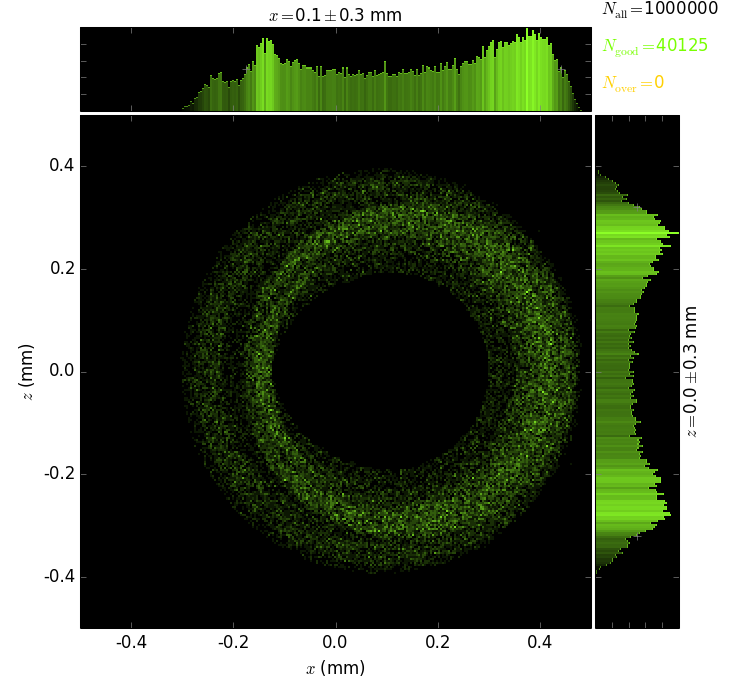
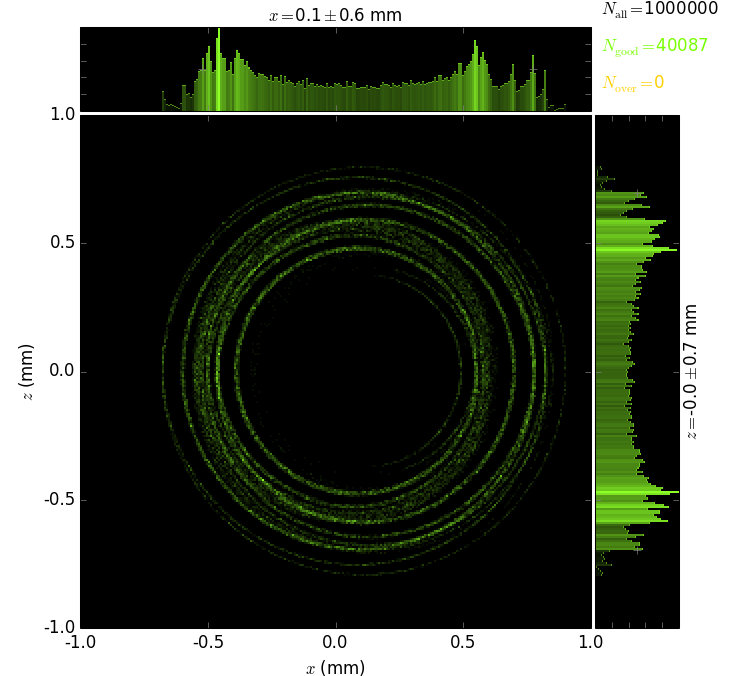
Conical-narrowing shape
same tilt as before

diff --git a/StraightCapillary.py b/StraightCapillary.py
@@ -106,7 +106,7 @@ def build_beamline(nrays=1000):
     capillary = StraightCapillary(
         beamLine, 'StraightCapillary', [0,0,0], roll=roll,
         material=mGlass, limPhysY=[rSample*np.cos(alpha), f],
-        f=f, rSample=rSample, entranceAlpha=alpha, rIn=r0, rOut=r0)
+        f=f, rSample=rSample, entranceAlpha=alpha, rIn=r0, rOut=r0/2)
     beamLine.capillaries.append(capillary)         
     
     if beamLine.xzMax < capillary.b0:
@@ -140,6 +140,8 @@ def plot2D():
     
     ax1.set_xlim(0,f)
     ax1.set_ylim(0,0.2)
+    # always save
+    fig1.savefig('MonoCapillaryZ0crosssection.png')
     
 # some important function
 def run_process(beamLine, shineOnly1stSource=False):
@@ -170,7 +172,7 @@ def main():
     beamLine = build_beamline()
     plots = []
     
-    limits = [-0.5, 0.5]
+    limits = [-1, 1]
     # at the entrance
     plot = xrtp.XYCPlot('beamFSM2', (1,3),
         xaxis=xrtp.XYCAxis(r'$x$', 'mm', bins=256, ppb=2, limits=limits),
@@ -184,4 +186,4 @@ def main():
     
 if __name__ == '__main__':
     plot2D()    
-    main()
+#    main()
